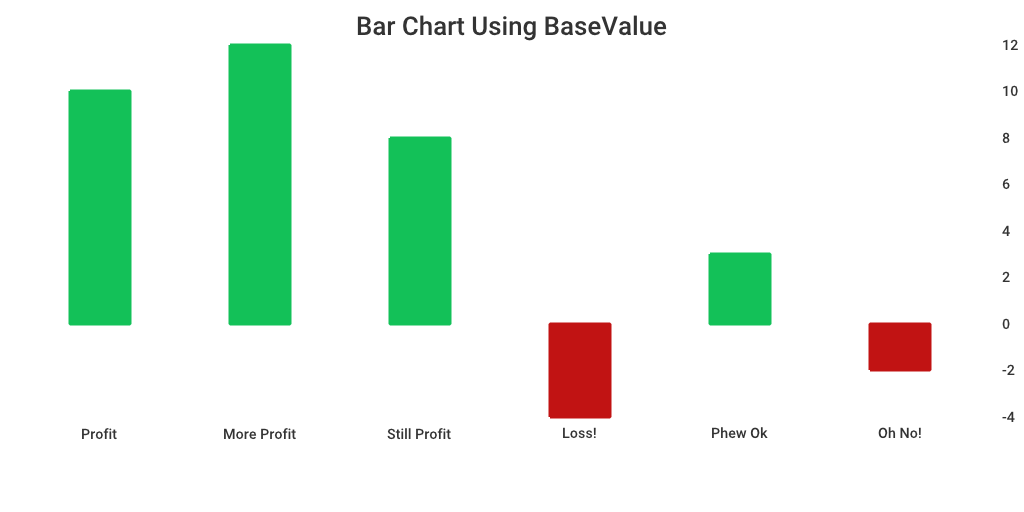
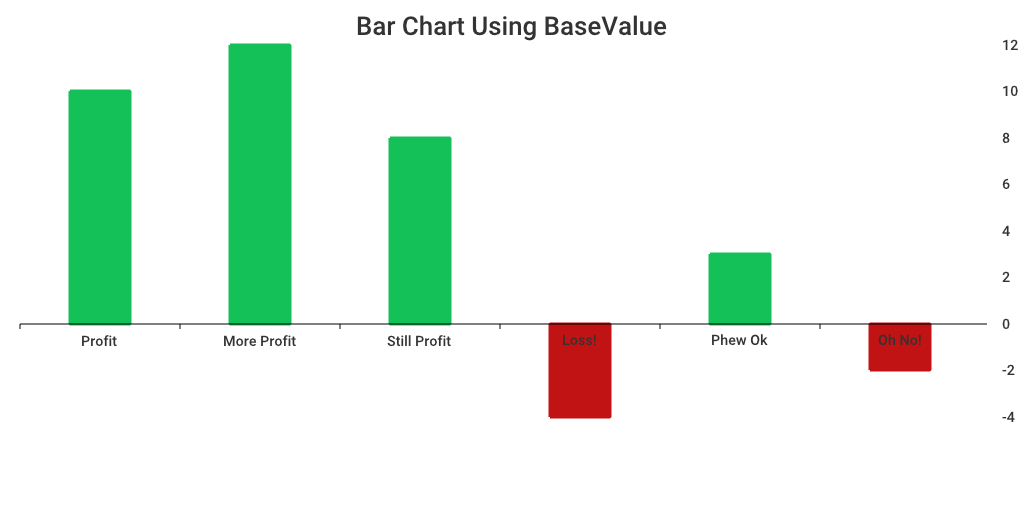
Update example output

diff --git a/examples/bar_chart_base_value/main.go b/examples/bar_chart_base_value/main.go
@@ -45,9 +45,9 @@ func main() {
 				{Value: 12.0, Label: "12"},
 			},
 		},
-		UseBaseValue:   true,
-		BaseValueXAxis: true,
-		BaseValue:      0.0,
+		UseBaseValue:      true,
+		UseBaseValueXAxis: true,
+		BaseValue:         0.0,
 		Bars: []chart.Value{
 			{Value: 10.0, Style: profitStyle, Label: "Profit"},
 			{Value: 12.0, Style: profitStyle, Label: "More Profit"},
